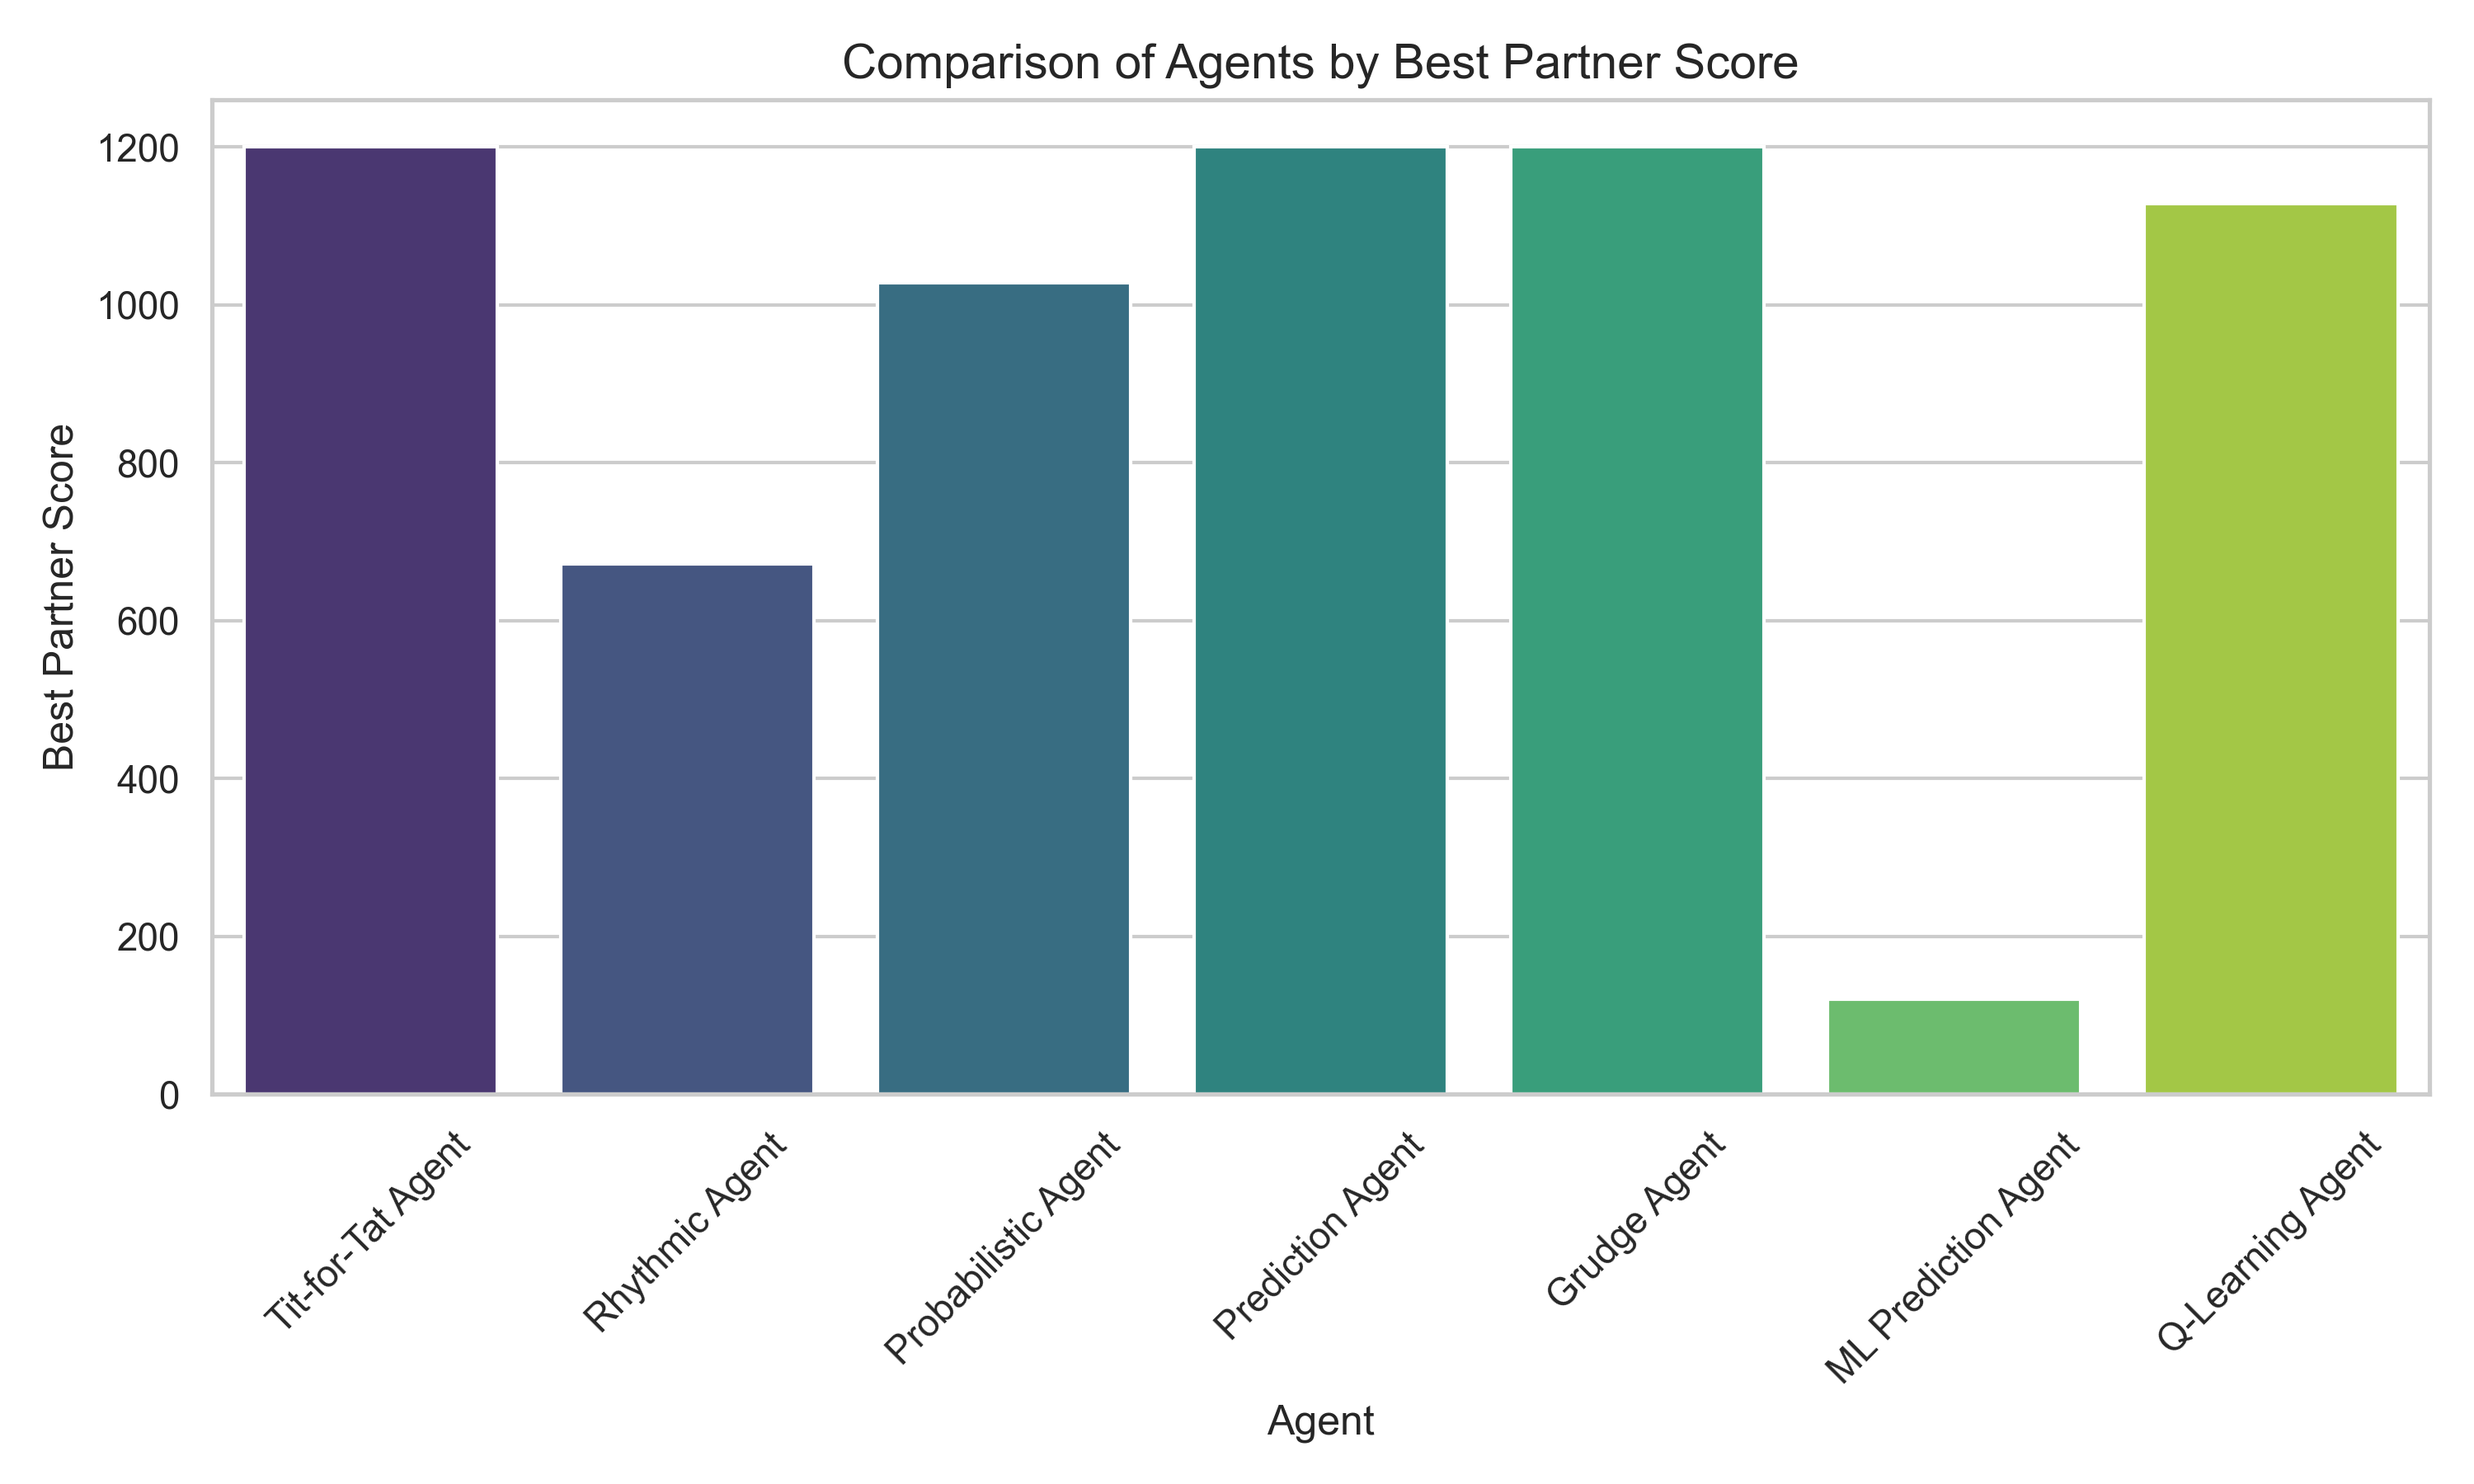
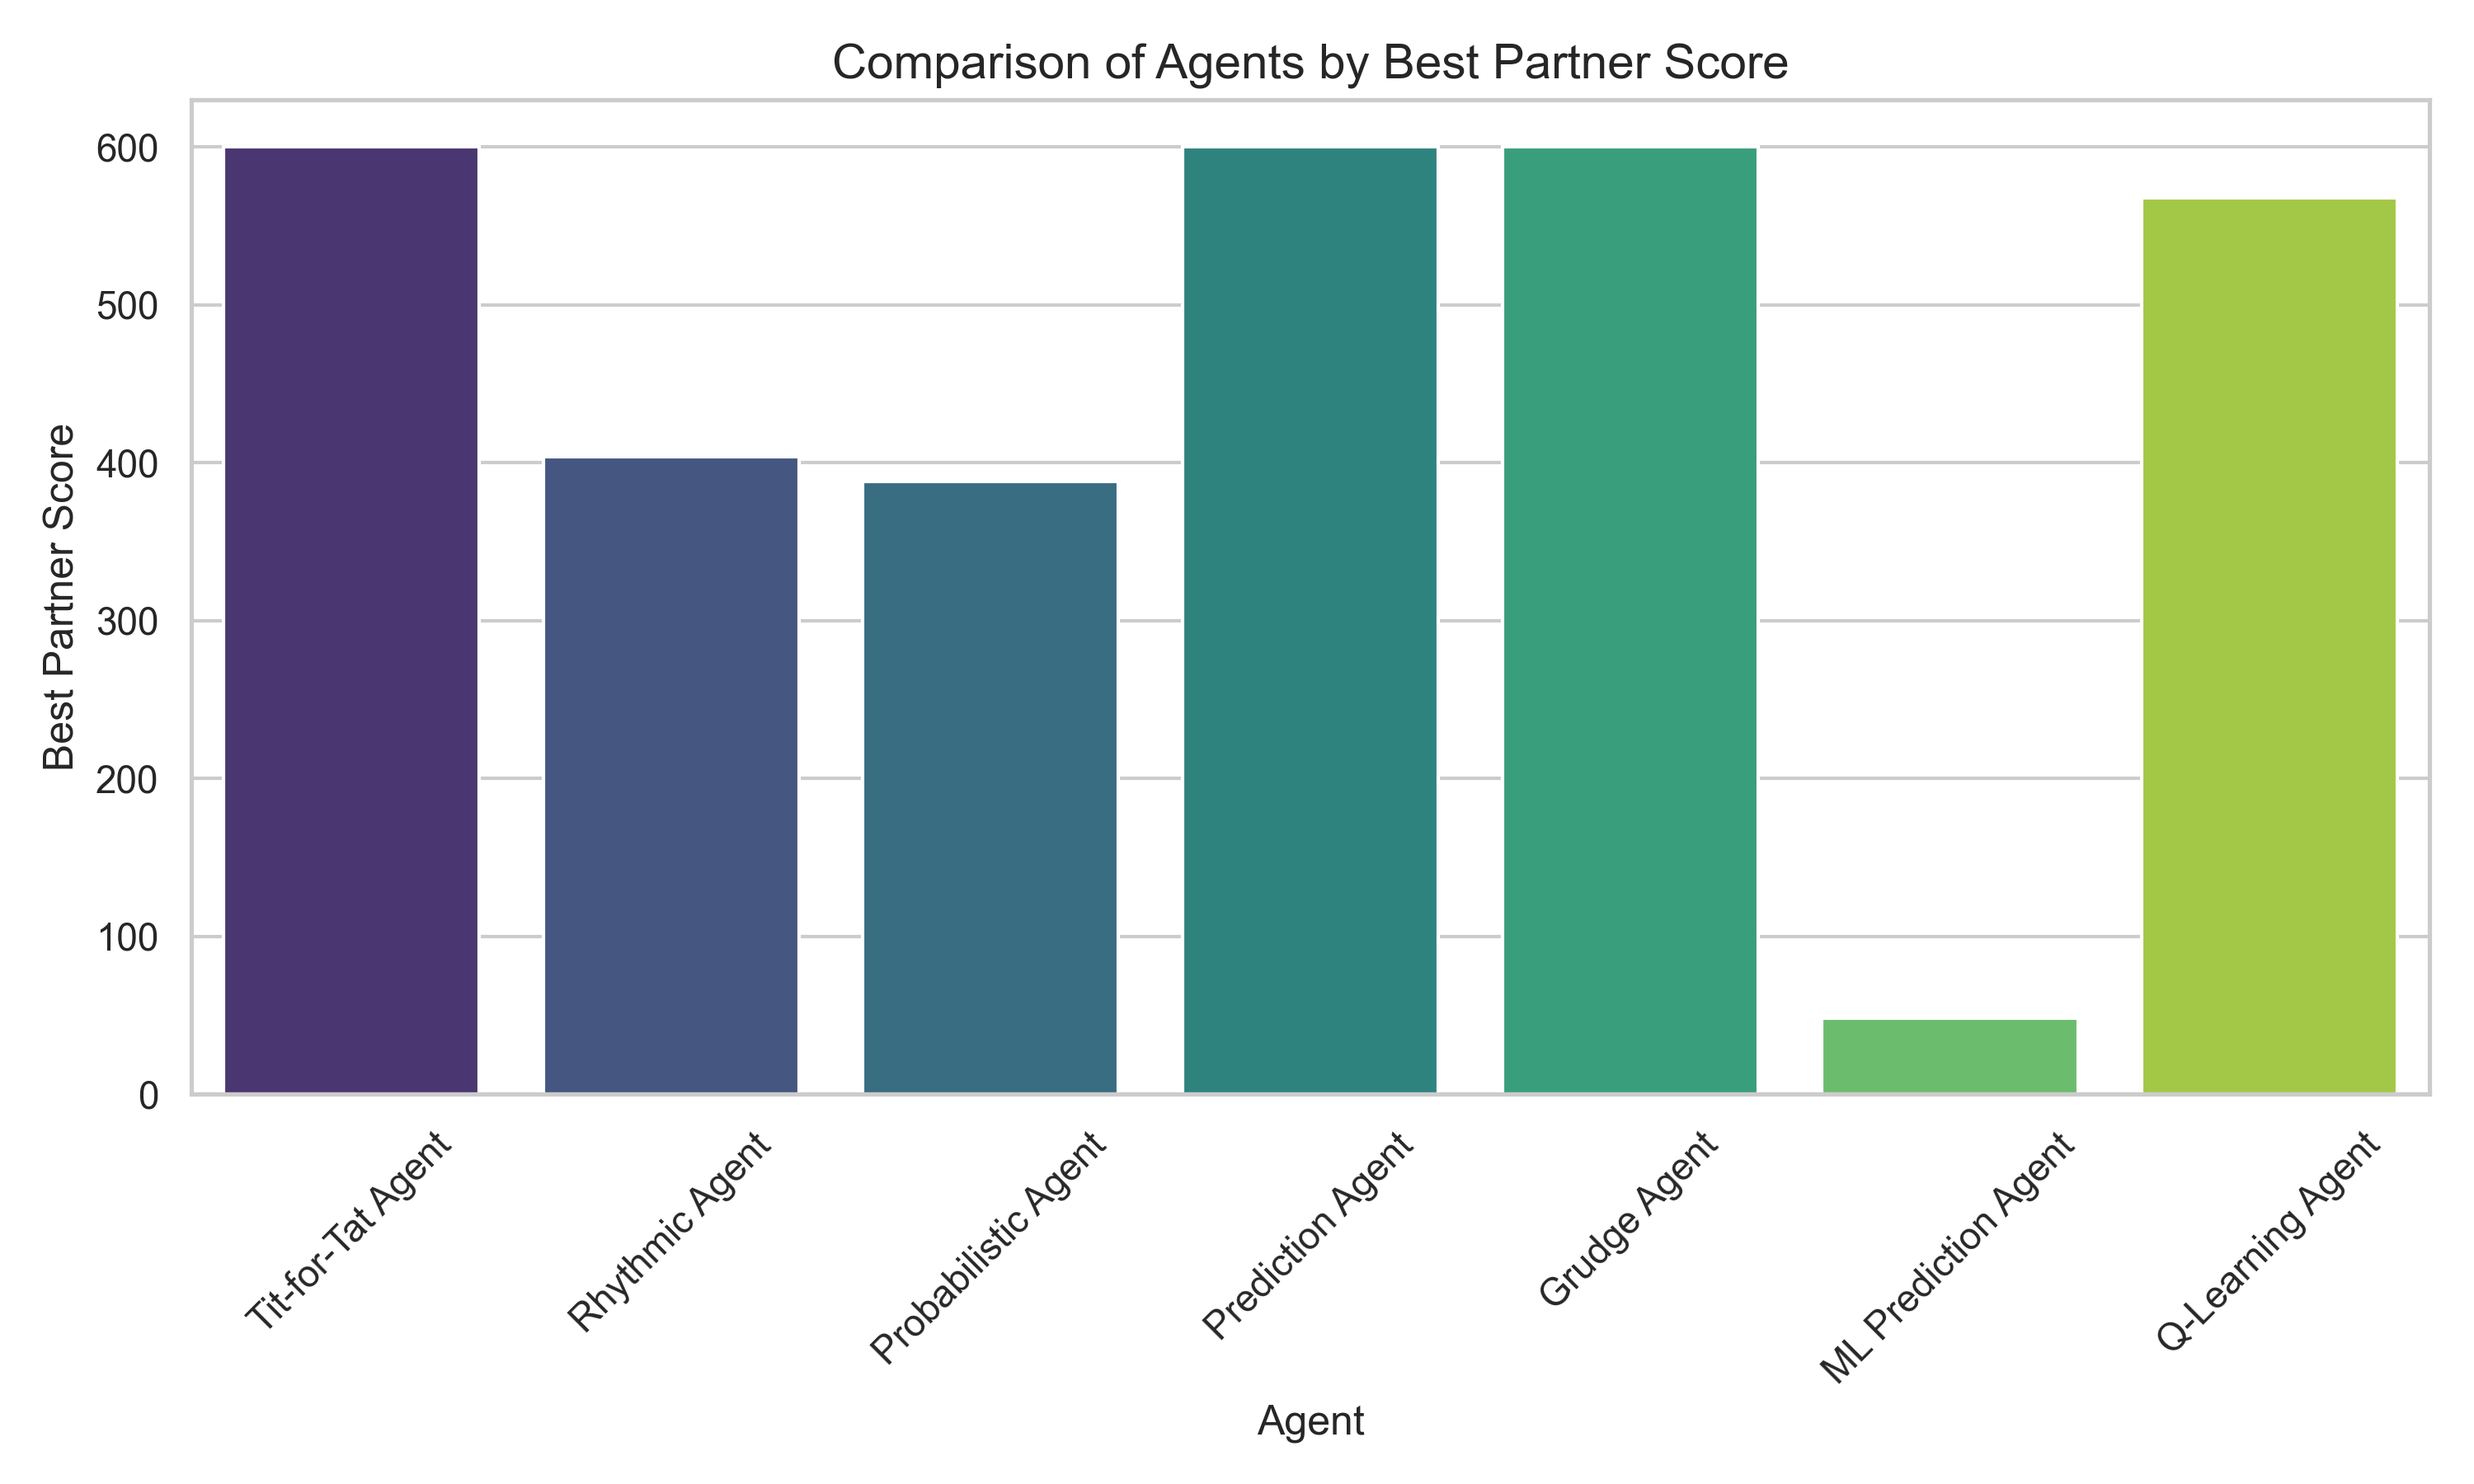
Fixed iterations

diff --git a/main.py b/main.py
@@ -126,10 +126,12 @@ def parse_simulation_config(json_path):
     
     # Extract reward values
     rewards = data.get("simulation", {}).get("scores", {})
+    itter = data.get("simulation", {}).get("max_iterations", {})
 
     return {
         "agents": agents_with_hyperparameters,
-        "rewards": rewards
+        "rewards": rewards,
+        "iterations": itter
     }
 
 
@@ -141,6 +143,7 @@ def major_simulation(iterations=MAJOR_ITERATIONS, all=True, parameter_file = "pa
     hyperparameters = parse_simulation_config(parameter_file)
     agent_params = hyperparameters.get("agents", {})
     rewards = hyperparameters.get("rewards", {})
+    iterations = hyperparameters.get("iterations")
 
     
 
